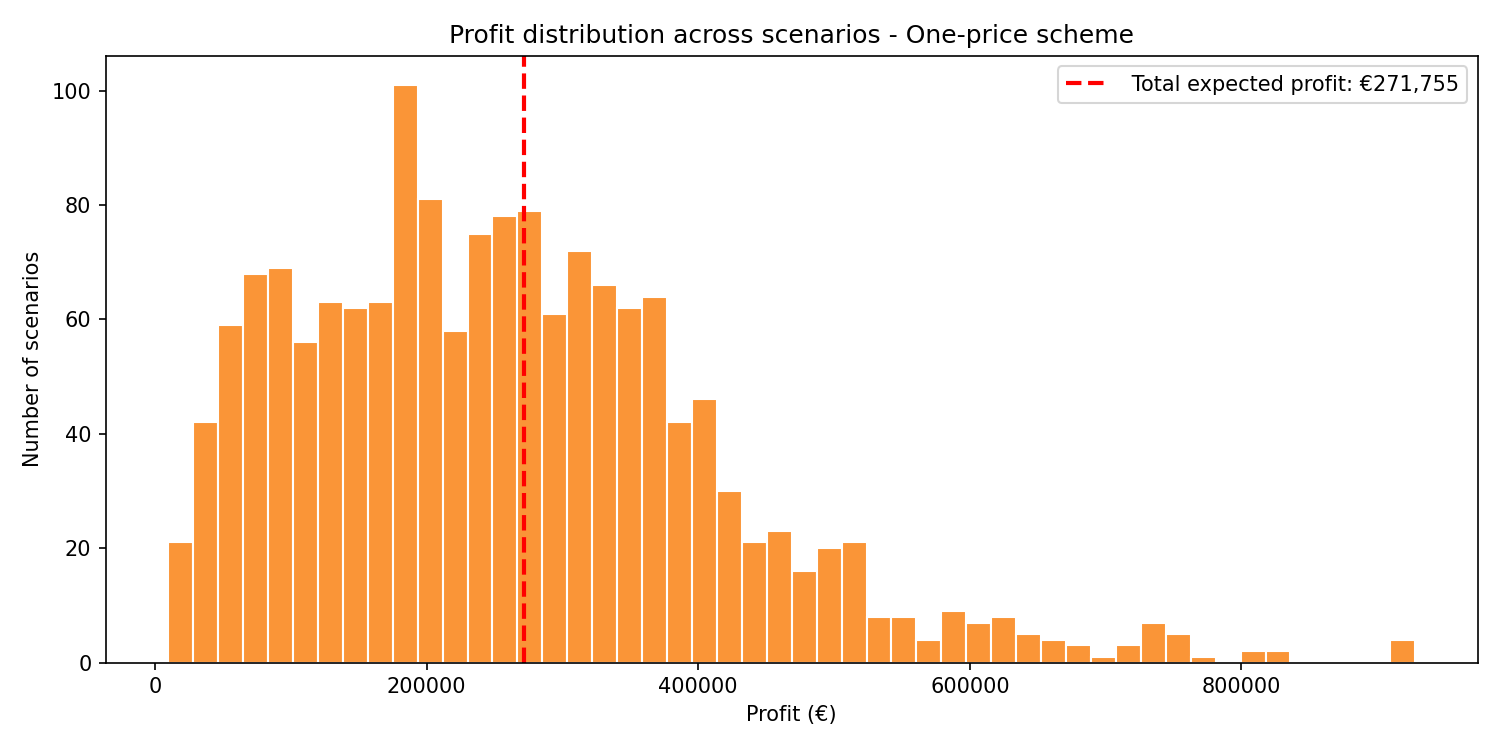
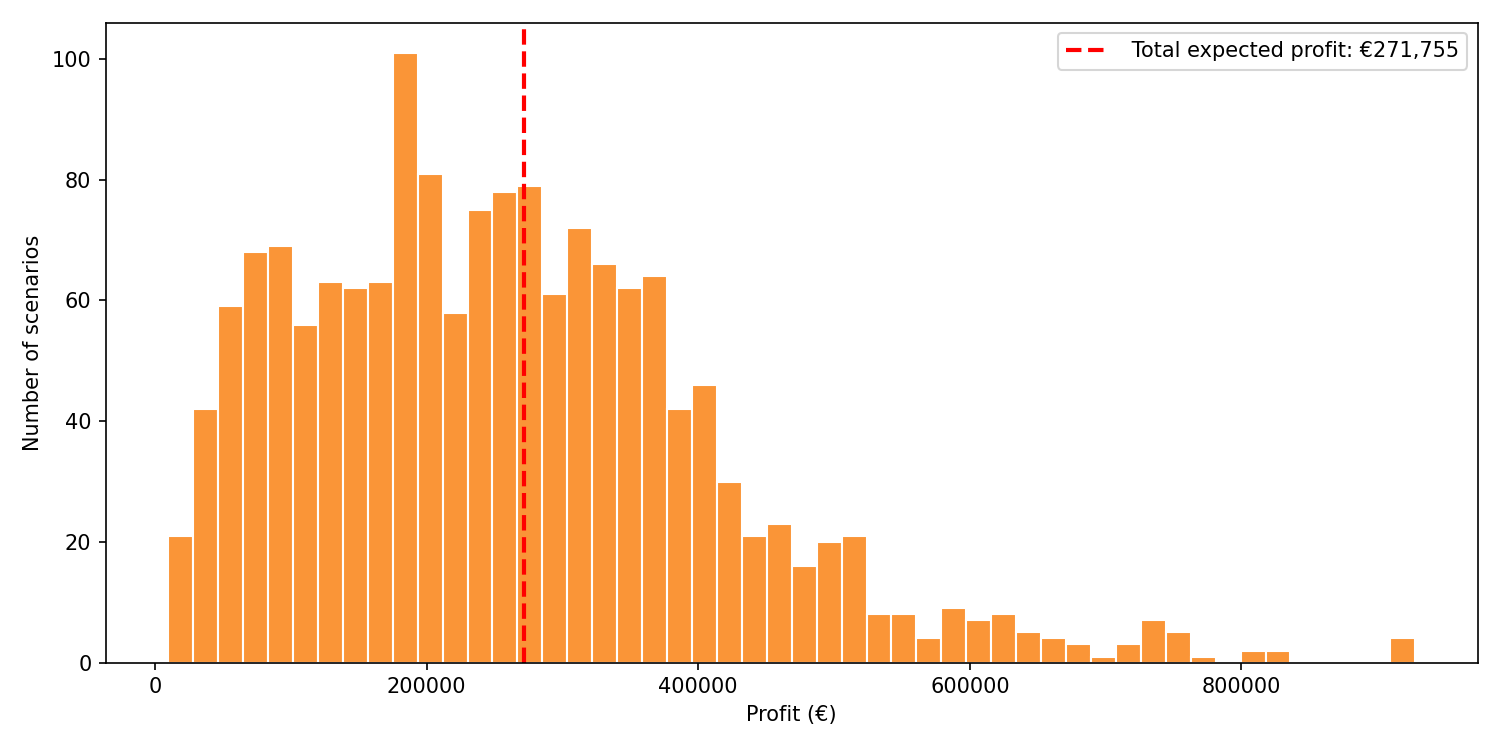
plots updated

diff --git a/step1/plots.py b/step1/plots.py
@@ -8,7 +8,7 @@ import matplotlib.pyplot as plt
 from adjustText import adjust_text
 
 
-def plot_profit_histogram(scenario_profit, prob, title, save_path, color="#fa9537"):
+def plot_profit_histogram(scenario_profit, prob, title=None, save_path=None, color="#FF6B35"):
     """
     Histogram of per-scenario profits with a vertical line at the expected profit.
 
@@ -39,7 +39,7 @@ def plot_profit_histogram(scenario_profit, prob, title, save_path, color="#fa953
     plt.show()
 
 
-def plot_Expected_DA_And_Balancing_Values(lambda_Balancing, lambda_One_Price_DA, hours, save_path, color = "#fa9537"):
+def plot_Expected_DA_And_Balancing_Values(lambda_Balancing, lambda_One_Price_DA, hours, save_path, color="#fa9537"):
     """
     Plot of expected day-ahead value, expected balancing value and the difference for each hour to determine the decision of how much to offer in the day-ahead market.
     """
@@ -51,6 +51,7 @@ def plot_Expected_DA_And_Balancing_Values(lambda_Balancing, lambda_One_Price_DA,
     plt.xlabel('Hour of Day')
     plt.ylabel('Value (€/MWh)')
     plt.title('Expected Day-Ahead price vs expected balancing price')
+    plt.xticks(hours, [h + 1 for h in hours])
     plt.legend()
     plt.tight_layout()
     plt.savefig(save_path, dpi=150)
@@ -248,3 +249,45 @@ def plot_crossvalidation(results_df, save_path_scatter, save_path_bar):
     plt.tight_layout()
     plt.savefig(save_path_bar, dpi=150)
     plt.show()
+
+def plot_hourly_offers_and_prices(p_DA_values, lambda_Balancing, lambda_DA, hours, save_path, title=None, 
+                                   color_offer="#FF6B35", color_DA="steelblue", color_balancing="#4CAF50"):
+    """
+    Combined plot: bar chart of optimal day-ahead offers (left axis) and
+    expected DA vs balancing prices (right axis) for each hour.
+    """
+    hours = list(hours)
+    offers = [p_DA_values[h] for h in hours]
+    da_prices = [lambda_DA[h] for h in hours]
+    bal_prices = [lambda_Balancing[h] for h in hours]
+
+    fig, ax1 = plt.subplots(figsize=(12, 5))
+
+    # left axis: hourly offers
+    ax1.bar(hours, offers, color=color_offer, edgecolor='black', linewidth=0.5, alpha=0.7, label='Day-Ahead Offer (MW)')
+    ax1.set_xlabel('Hour of Day')
+    ax1.set_ylabel('Offer (MW)', color=color_offer)
+    ax1.tick_params(axis='y', labelcolor=color_offer)
+    ax1.set_ylim(0, 600)
+    ax1.set_xticks(hours)
+    ax1.set_xticklabels([h + 1 for h in hours])
+
+    # right axis: expected prices
+    ax2 = ax1.twinx()
+    ax2.plot(hours, da_prices, marker='o', color=color_DA, label='Expected DA Price (€/MWh)')
+    ax2.plot(hours, bal_prices, marker='s', color=color_balancing, label='Expected Balancing Price (€/MWh)')
+    ax2.set_ylabel('Price (€/MWh)')
+
+    # combined legend
+    lines1, labels1 = ax1.get_legend_handles_labels()
+    lines2, labels2 = ax2.get_legend_handles_labels()
+    #ax1.legend(lines1 + lines2, labels1 + labels2, loc='upper left')
+    ax1.legend(lines1 + lines2, labels1 + labels2,
+           bbox_to_anchor=(0.5, 1.02), loc='lower center',
+           ncol=3, borderaxespad=0, fontsize=9)
+    plt.title(title)
+    fig.tight_layout()
+    plt.savefig(save_path, dpi=150)
+    plt.show()
+
+

diff --git a/Step1_Task1AndTask2.py b/Step1_Task1AndTask2.py
@@ -10,7 +10,7 @@ from step1.data import (
 )
 
 from step1.models import compute_balancing_prices_one, solve_one_price, compute_balancing_prices_two, solve_two_price
-from step1.plots import plot_Expected_DA_And_Balancing_Values, plot_Mean_Wind_Generation_And_DA_Price, plot_profit_histogram, plot_hourly_offers
+from step1.plots import plot_Expected_DA_And_Balancing_Values, plot_Mean_Wind_Generation_And_DA_Price, plot_profit_histogram, plot_hourly_offers, plot_hourly_offers_and_prices, plot_profit_histogram_stacked
 
 # -------- Task 1 --------
 print("\n------ Task 1: One-price scheme ------")
@@ -74,11 +74,17 @@ plot_hourly_offers(
     save_path=PLOTS / "Task1.1_hourly_offers.png",
     color="#fa9537"
 )
+# single plot with offers and prices
+plot_hourly_offers_and_prices(
+    p_DA_One_Price_values, expected_balancing_value, expected_DA_value, HOURS,
+    #title="Optimal day-ahead offers and expected prices - One-price scheme",
+    save_path=PLOTS / "Task1.1_hourly_offers_and_prices.png"
+)
 
 # plot profit distribution
 plot_profit_histogram(
     scenario_profit, prob,
-    title="Profit distribution across scenarios - One-price scheme",
+    #title="Profit distribution across scenarios - One-price scheme",
     save_path=PLOTS / "Task1.1_profit_distribution.png",
     color="#fa9537"
 )
